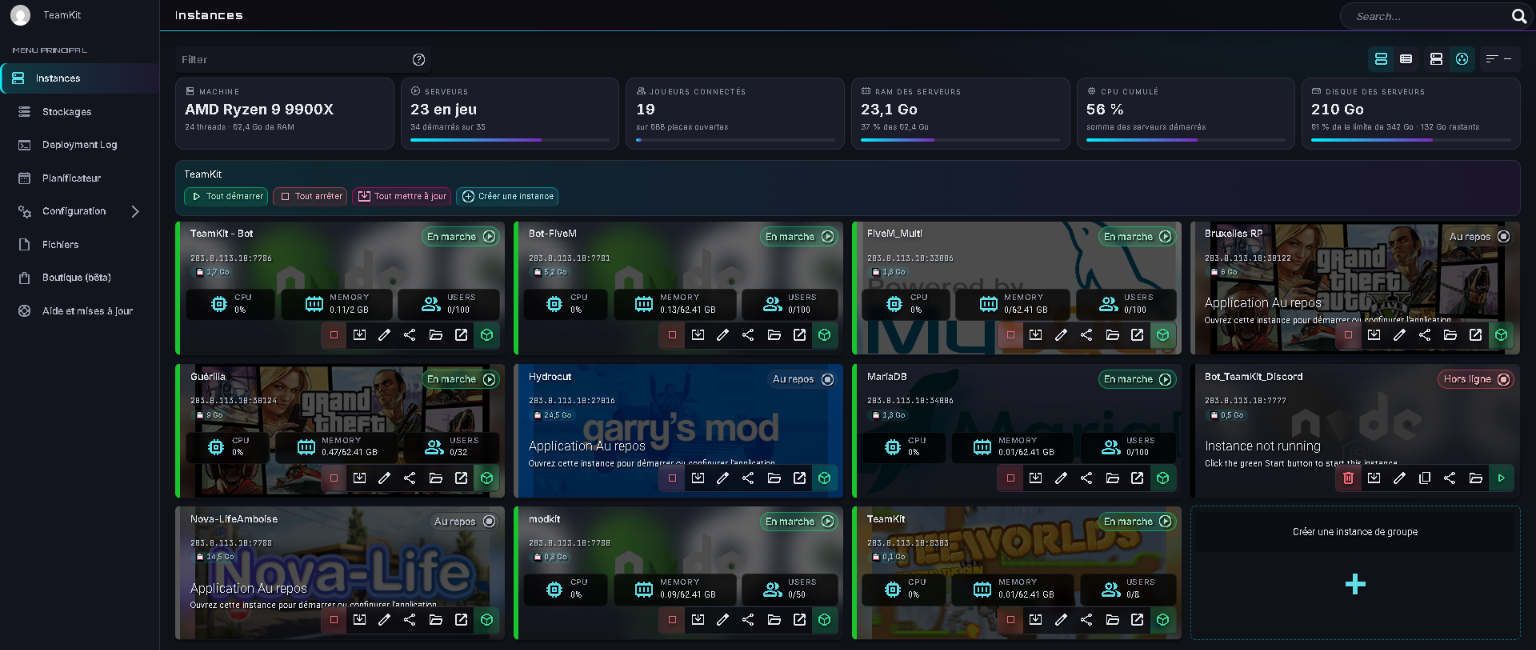
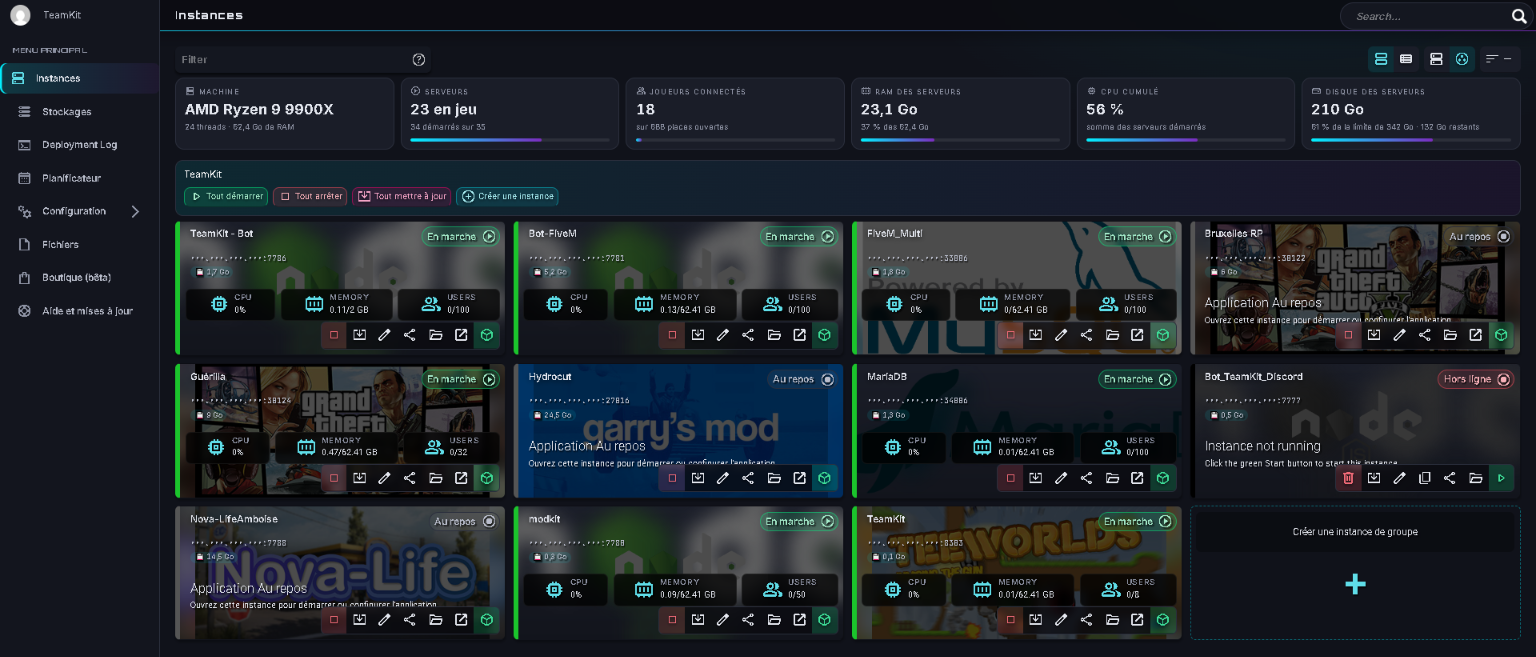
Captures des quatre vues de la page Instances, adresses des serveurs masquées

diff --git a/LISEZMOI.md b/LISEZMOI.md
@@ -11,9 +11,13 @@ tous les jours sur les serveurs de [TeamKit](https://www.teamkit.fr). *English v
 
 ## Captures
 
-**Page Instances avec la barre de stats** et les pastilles `💾` :
+La barre de stats marche dans **les quatre vues** de la page Instances (les quatre boutons en haut à droite : cartes ou liste, par groupe ou par machine). Chaque instance a aussi sa pastille `💾`.
 
-![Page Instances avec la barre de stats TeamKit](screenshots/instances-with-stats.png)
+| Cartes, par groupe | Liste, par groupe |
+|---|---|
+| ![Cartes par groupe, avec la barre de stats](screenshots/instances-with-stats.png) | ![Liste par groupe, avec la barre de stats](screenshots/instances-list-groups.png) |
+| **Cartes, par machine** | **Liste, par machine** |
+| ![Cartes par machine, avec la barre de stats](screenshots/instances-cards-machine.png) | ![Liste par machine, avec la barre de stats](screenshots/instances-list-machine.png) |
 
 **La même page sans l'ajout** (thème seul) :
 
@@ -23,7 +27,7 @@ tous les jours sur les serveurs de [TeamKit](https://www.teamkit.fr). *English v
 
 ![Page État avec le thème TeamKit-HUD](screenshots/status-hud.png)
 
-*Captures prises sur le panel TeamKit ; l'adresse IP est un exemple (203.0.113.x) ou floutée.*
+*Captures prises sur le panel TeamKit ; les adresses des serveurs sont masquées.*
 
 ## 1. Les thèmes (officiel, sans risque)
 

diff --git a/README.md b/README.md
@@ -12,9 +12,13 @@ Small, unofficial customisations for [AMP by CubeCoders](https://cubecoders.com/
 
 ## Screenshots
 
-**Instances page with the stats bar** (machine, servers, players, RAM, CPU, datastore) and the `💾` disk badges:
+The stats bar works in **all four layouts** of the Instances page (the four buttons at the top right: cards or list, by group or by machine). Each instance also gets a `💾` disk badge.
 
-![Instances page with the TeamKit stats bar](screenshots/instances-with-stats.png)
+| Cards, by group | List, by group |
+|---|---|
+| ![Cards by group, with the stats bar](screenshots/instances-with-stats.png) | ![List by group, with the stats bar](screenshots/instances-list-groups.png) |
+| **Cards, by machine** | **List, by machine** |
+| ![Cards by machine, with the stats bar](screenshots/instances-cards-machine.png) | ![List by machine, with the stats bar](screenshots/instances-list-machine.png) |
 
 **The same page without the add-on** (theme only):
 
@@ -24,7 +28,7 @@ Small, unofficial customisations for [AMP by CubeCoders](https://cubecoders.com/
 
 ![Status page with the TeamKit-HUD theme](screenshots/status-hud.png)
 
-*Screenshots taken on the TeamKit panel; the IP address is an example (203.0.113.x) or blurred.*
+*Screenshots taken on the TeamKit panel; server addresses are hidden.*
 
 ## 1. Themes (official, safe)
 
